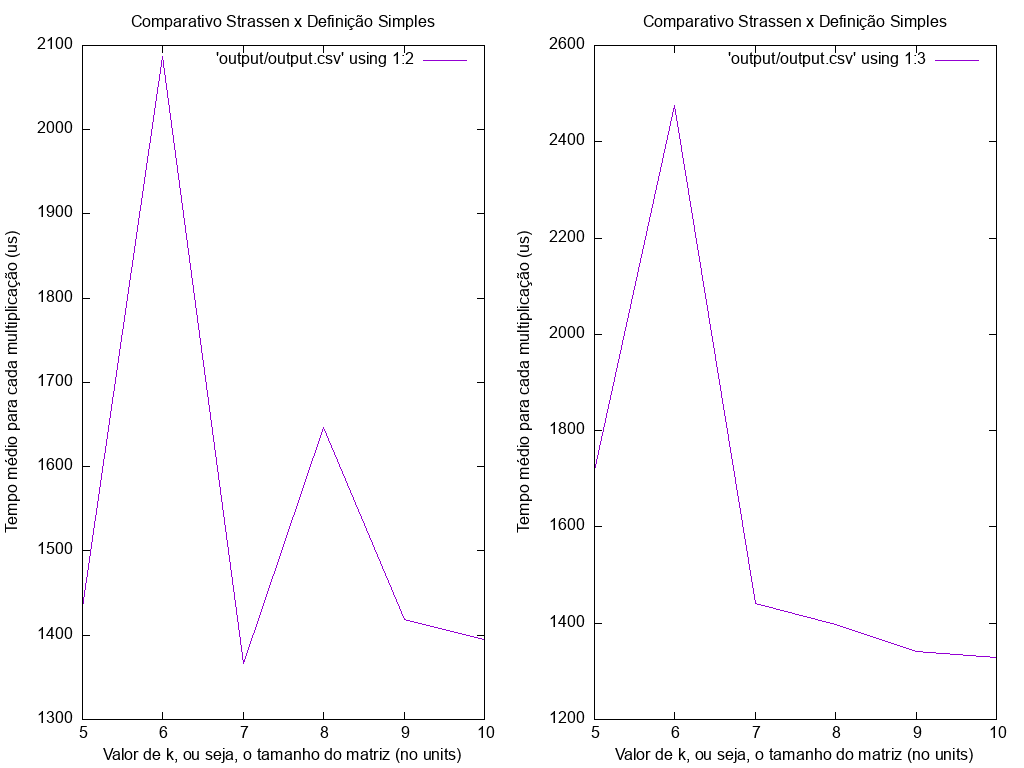
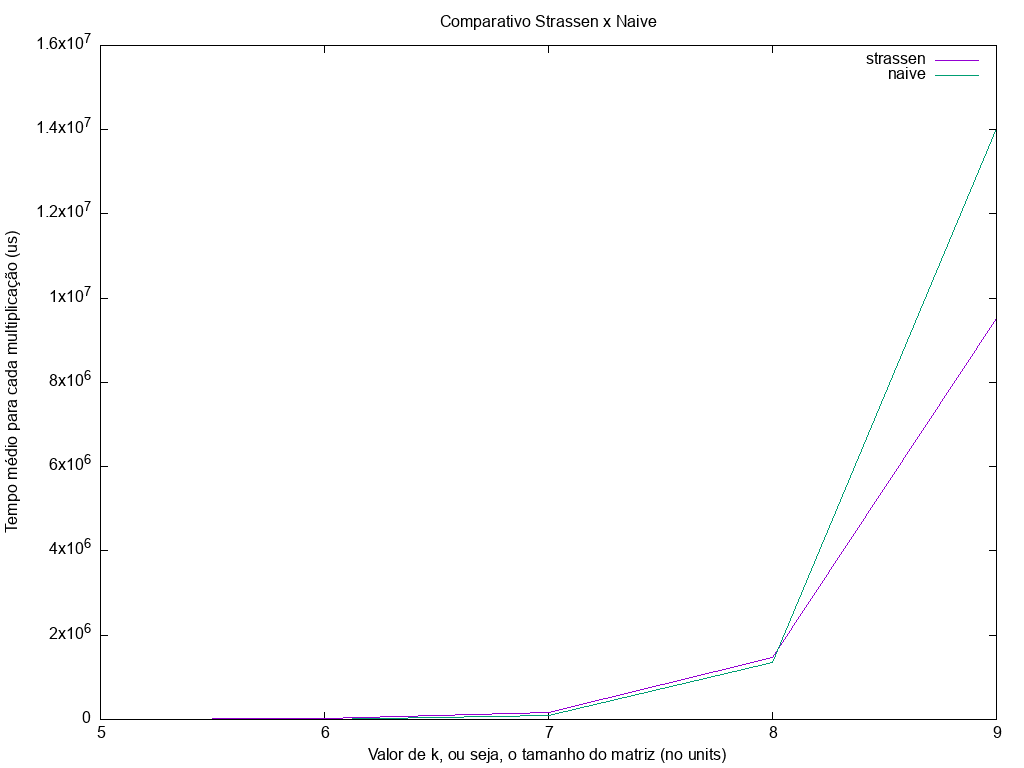
update runner

diff --git a/src/runner.cpp b/src/runner.cpp
@@ -25,7 +25,7 @@ void Runner::execute() {
     microseconds ms = std::chrono::duration_cast<microseconds>(t1 - t0);
     this->bruteForce.push_back(ms);
     
-    std::cout << "Naive k:" << i << "  M" << pow(2,i) << "x" << pow(2,i) << std::endl;
+    std::cout << "Naive k:" << i << "  " << pow(2,i) << "x" << pow(2,i) << std::endl;
     std::cout << "Time total: " << ms.count() << std::endl;
     std::cout << "Time avarage: " <<  ms.count() / r << " microseconds" << std::endl << std::endl;
 
@@ -39,9 +39,11 @@ void Runner::execute() {
     ms = std::chrono::duration_cast<microseconds>(t1 - t0);
     this->strassen.push_back(ms);
 
-    std::cout << "Strassen k:" << i << "  M" << pow(2,i) << "x" << pow(2,i) << std::endl;
+    std::cout << "Strassen k:" << i << "  " << pow(2,i) << "x" << pow(2,i) << std::endl;
     std::cout << "Time total: " << ms.count() << std::endl;
     std::cout << "Time avarage: " <<  ms.count() / r << " microseconds" << std::endl << std::endl;
+
+    this->matrices.clear();
   }
 
   std::ofstream outFile("./output/output.csv");
@@ -58,36 +60,20 @@ void Runner::execute() {
   plot("set terminal png size 1024,768");
   plot("set output 'output/output.png'");
 
-  plot("set title \"Comparativo Strassen x Definição Simples\" ");
+  plot("set title \"Comparativo Strassen x Naive\" ");
   plot("set xlabel \"Valor de k, ou seja, o tamanho do matriz (no units)\" ");
   plot("set ylabel \"Tempo médio para cada multiplicação (us)\" ");
 
   plot("set xtics 5,1," + std::to_string(this->kmax));
-
-  plot("set multiplot layout 1, 2");
-  plot("set lmargin at 0");
-  plot("set rmargin at .5");
-  plot("plot 'output/output.csv' using 1:2 with lines");
-  plot("set lmargin at .5");
-  plot("set lmargin at 1");
-  plot("plot 'output/output.csv' using 1:3 with lines");
-  plot("unset multiplot");
+  plot("plot 'output/output.csv' using 1:2 with lines t\"strassen\", 'output/output.csv' using 1:3 with lines t\"naive\"");
 
   plot("set terminal qt");
-  plot("set title \"Comparativo Strassen x Definição Simples\" ");
+  plot("set title \"Comparativo Strassen x Naive\" ");
   plot("set xlabel \"Valor de k, ou seja, o tamanho do matriz (no units)\" ");
   plot("set ylabel \"Tempo médio para cada multiplicação (us)\" ");
 
   plot("set xtics 5,1," + std::to_string(this->kmax));
-
-  plot("set multiplot layout 1, 2");
-  plot("set lmargin at 0");
-  plot("set rmargin at .5");
-  plot("plot 'output/output.csv' using 1:2 with lines");
-  plot("set lmargin at .5");
-  plot("set lmargin at 1");
-  plot("plot 'output/output.csv' using 1:3 with lines");
-  plot("unset multiplot");
+  plot("plot 'output/output.csv' using 1:2 with lines t\"strassen\", 'output/output.csv' using 1:3 with lines t\"naive\"");
 }
 
 

diff --git a/src/matrix.cpp b/src/matrix.cpp
@@ -118,7 +118,7 @@ Matrix Matrix::concatenate(Matrix *a, Matrix *b, Matrix *c, Matrix *d) {
 
 Matrix Matrix::strassen(Matrix *m1, Matrix *m2) {
     
-    if (m1->rows == 32) {
+    if (m1->rows <= 32) {
         Matrix result = Matrix(1, 1);
         return m1->multiply(m2);
     }
